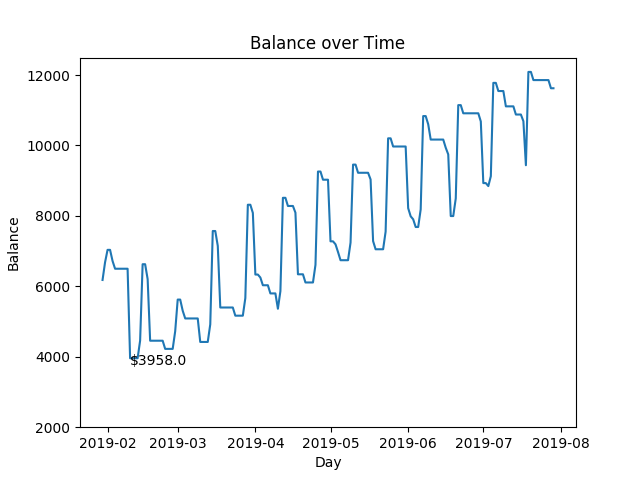
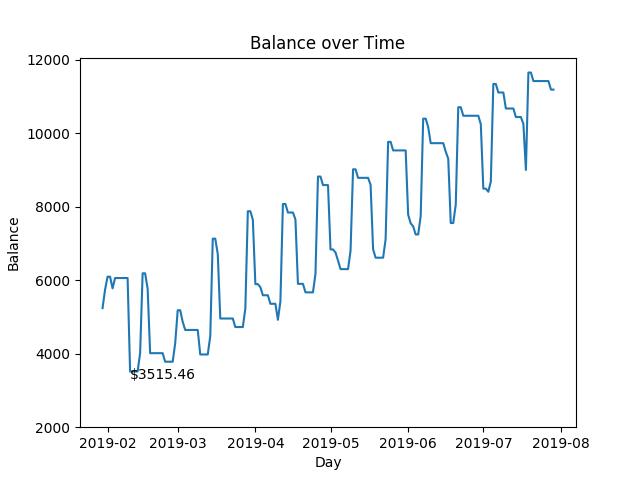
daily updates

diff --git a/output/html/2019-28-01.html b/output/html/2019-28-01.html
@@ -14,8 +14,8 @@
     <div>
         <h1>Financial Status as of 2019-01-28</h1>
         <br />
-        <img src="///Users/jacob/personal/adder/plot/2019-28-01.png" />
-        <img src="///Users/jacob/personal/adder/plot/budget-2019-28-01.png"/>
+        <img src="///Users/jacob/personal/adder/output/2019-28-01.png" />
+        <img src="///Users/jacob/personal/adder/output/budget-2019-28-01.png"/>
     
         <table>
 <thead>
@@ -41,5 +41,7 @@
 <tr><td>DipInCurrentBal</td><td style="text-align: right;">   2223</td></tr>
 </tbody>
 </table>
+
+    Sprint took their payment after I made this. So we should have $400 less.
     </div>
     

diff --git a/output/html/2019-30-01.html b/output/html/2019-30-01.html
@@ -36,9 +36,9 @@
 <tr><th>Stat           </th><th style="text-align: right;">  Value</th></tr>
 </thead>
 <tbody>
-<tr><td>MinimumBalance </td><td style="text-align: right;">   3958</td></tr>
-<tr><td>AverageBalance </td><td style="text-align: right;">   7866</td></tr>
-<tr><td>DipInCurrentBal</td><td style="text-align: right;">   2223</td></tr>
+<tr><td>MinimumBalance </td><td style="text-align: right;">   3515</td></tr>
+<tr><td>AverageBalance </td><td style="text-align: right;">   7410</td></tr>
+<tr><td>DipInCurrentBal</td><td style="text-align: right;">   1723</td></tr>
 </tbody>
 </table>
     </div>

diff --git a/data/reality.py b/data/reality.py
@@ -25,8 +25,8 @@ EverySunday = Schedule(start=datetime(2019,1,20), interval=relativedelta(weeks=1
 RyanKautz = Schedule(start=datetime(2019,1,18), interval=relativedelta(months=1), end=datetime(2019,8,1))
 
 accounts = [
-    Account(name="360 Checking", balance=539),
-    Account(name="360 Savings", balance=5642),
+    Account(name="360 Checking", balance=6.46),
+    Account(name="360 Savings", balance=5232),
 ]
 
 transactions = [
@@ -48,7 +48,8 @@ transactions = [
     Transaction(name="Fair",            category="once",        schedule=Once(2019,2,1),    value=-545),
     Transaction(name="HalfFair",        category="once",        schedule=Once(2019,2,15),   value=-280),
     Transaction(name="TowCar",          category="once",        schedule=Once(2019,2,15),   value=-200),
-    Transaction(name="Mechanic",        category="once",        schedule=Once(2019,2,10),   value=-1875)
+    Transaction(name="Mechanic",        category="once",        schedule=Once(2019,2,10),   value=-1875),
+    Transaction(name="SkyFlix@",        category="once",        schedule=Once(2019,2,4),    value=500),
 ]
 
 def make_html(tx_set, bal):
@@ -73,9 +74,9 @@ def make_html(tx_set, bal):
         <img src="///Users/jacob/personal/adder/output/{datetime.today().strftime("%Y-%d-%m")}.png" />
         <img src="///Users/jacob/personal/adder/output/budget-{datetime.today().strftime("%Y-%d-%m")}.png"/>
     
-        {tabulate(budget["budget"], headers=("Category", "$", "% Budget"), tablefmt=OUTPUT_FOMAT)}
+        {tabulate(budget["budget"], headers=("Category", "$", "% Budget"), tablefmt="html")}
         <br>
-        {tabulate(bal.stats, headers=("Stat", "Value"), tablefmt=OUTPUT_FOMAT)}
+        {tabulate(bal.stats, headers=("Stat", "Value"), tablefmt="html")}
     </div>
     """
 
@@ -85,7 +86,6 @@ if __name__ == "__main__":
 
     REPORT_LEGTH_MONTHS = 6
     SHOW_ROWS = 15
-    OUTPUT_FOMAT = "html"
     
     tx_set = TransactionSet(transactions=transactions, end=datetime.today() + relativedelta(months=REPORT_LEGTH_MONTHS))
     bal = BalanceSheet(log=tx_set.log, accounts=accounts)
@@ -93,6 +93,7 @@ if __name__ == "__main__":
     tx_set.budget_plot()
     bal.create_plot()
 
-    if OUTPUT_FOMAT == "html":
-        with open(f"output/html/{datetime.today().strftime('%Y-%d-%m')}.html", "w") as f:
-            f.write(make_html(tx_set, bal))
+    print(tabulate(bal.stats, headers=("Stat", "Value")))
+
+    with open(f"output/html/{datetime.today().strftime('%Y-%d-%m')}.html", "w") as f:
+        f.write(make_html(tx_set, bal))
